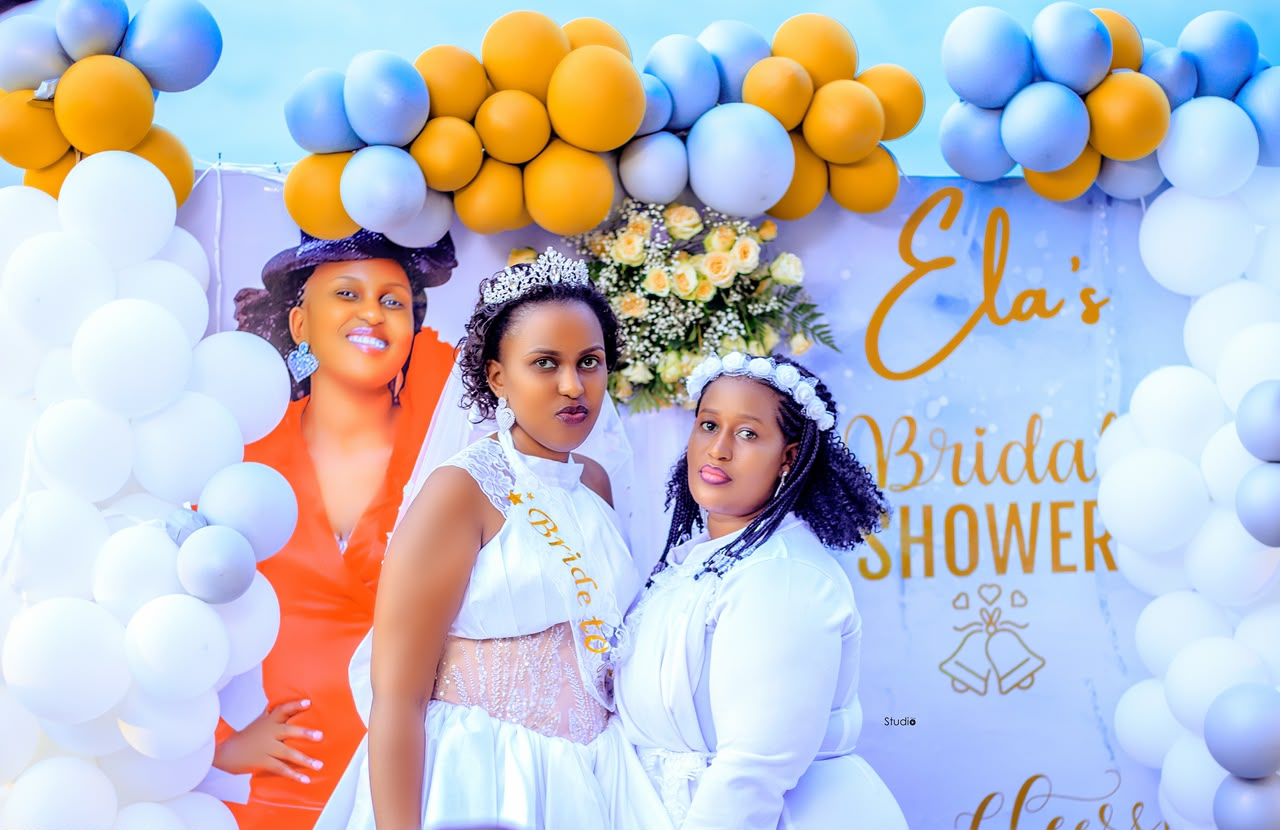
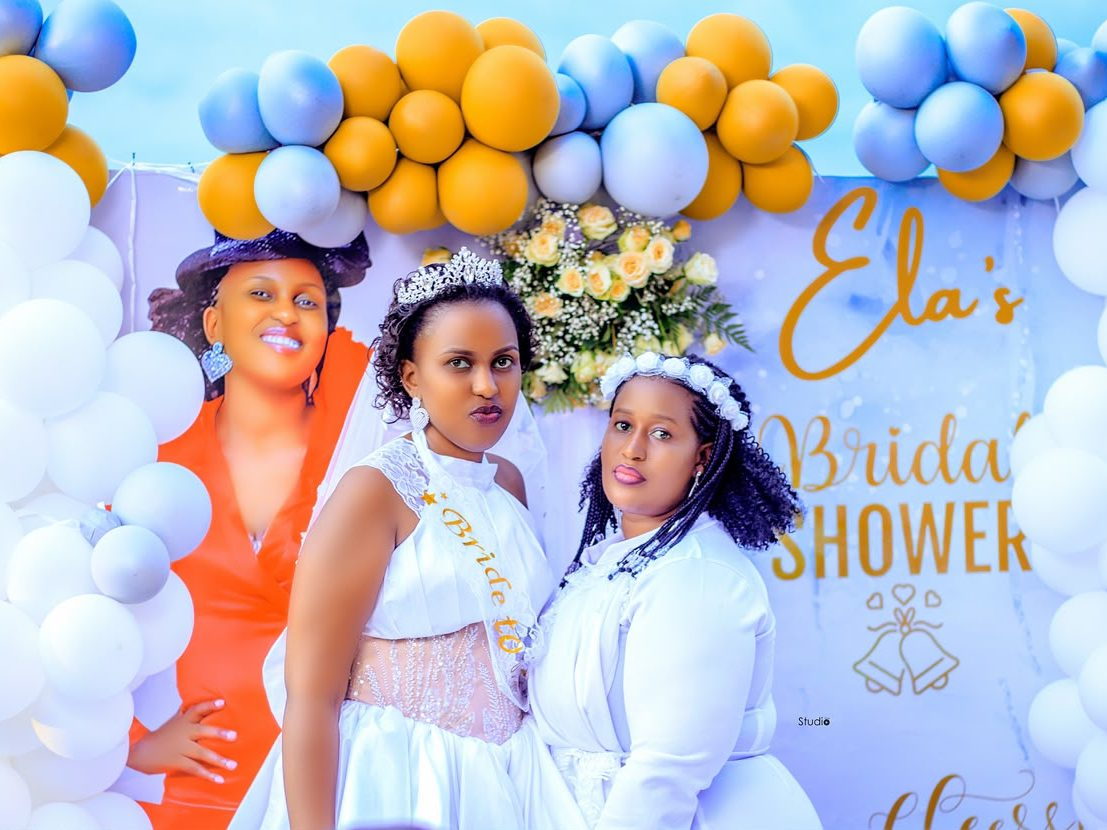
Optimize founder photos: crop to display ratio and recompress

diff --git a/about.html b/about.html
@@ -119,7 +119,7 @@
         <div class="grid grid-2">
           <article class="card reveal">
             <div class="card-art card-art-photo">
-              <img src="images/shampein.jpeg" alt="Portrait of Muhairwe Shampein" width="808" height="1280" loading="lazy">
+              <img src="images/shampein.jpeg" alt="Portrait of Muhairwe Shampein" width="808" height="606" loading="lazy">
             </div>
             <div class="card-body">
               <h3>Muhairwe Shampein</h3>
@@ -129,7 +129,7 @@
           </article>
           <article class="card reveal">
             <div class="card-art card-art-photo">
-              <img src="images/elas.jpeg" alt="Portrait of Ayebazibwe Elas" width="1280" height="830" loading="lazy">
+              <img src="images/elas.jpeg" alt="Portrait of Ayebazibwe Elas" width="1107" height="830" loading="lazy">
             </div>
             <div class="card-body">
               <h3>Ayebazibwe Elas</h3>
